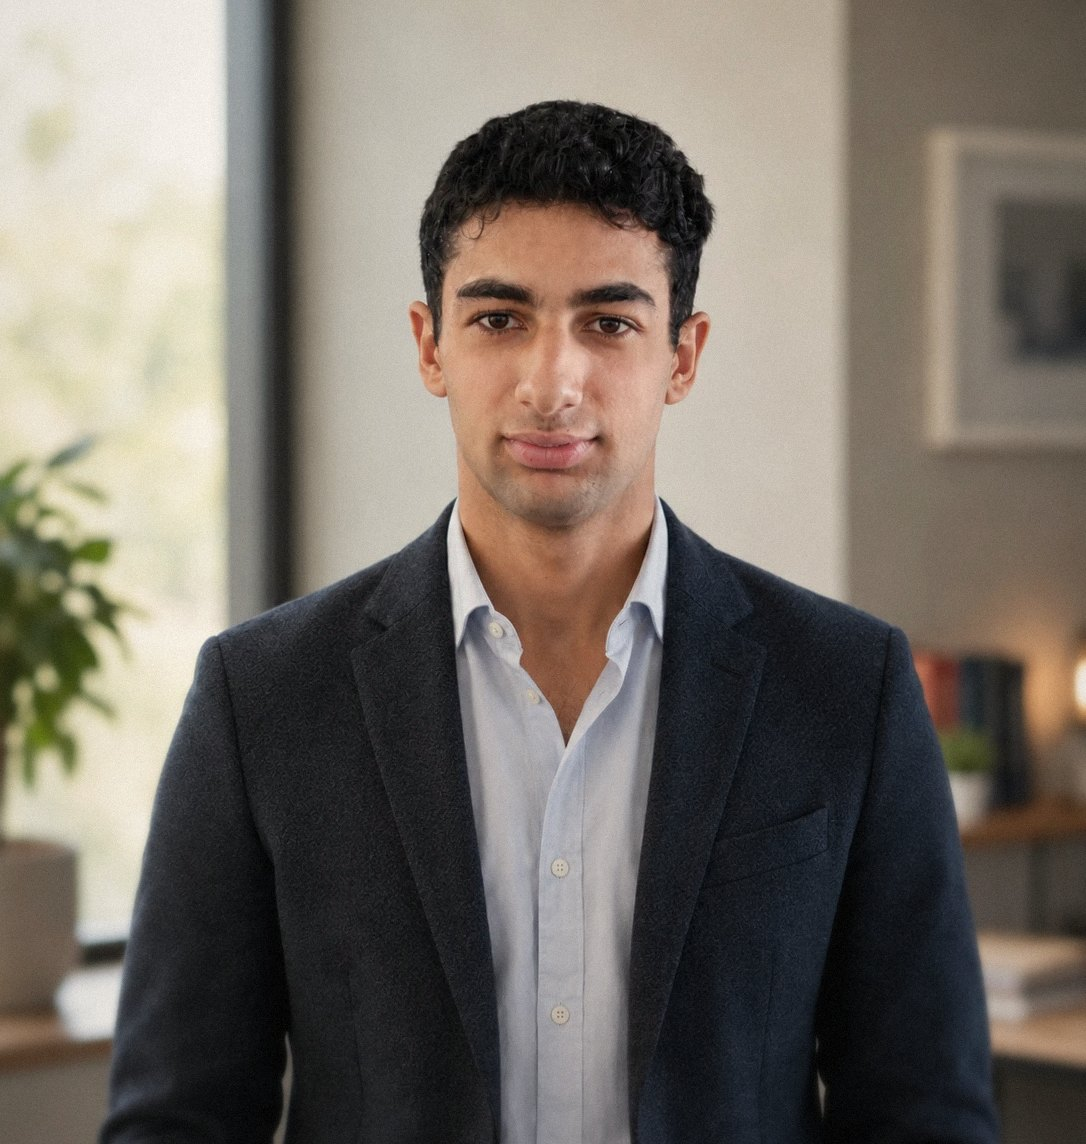
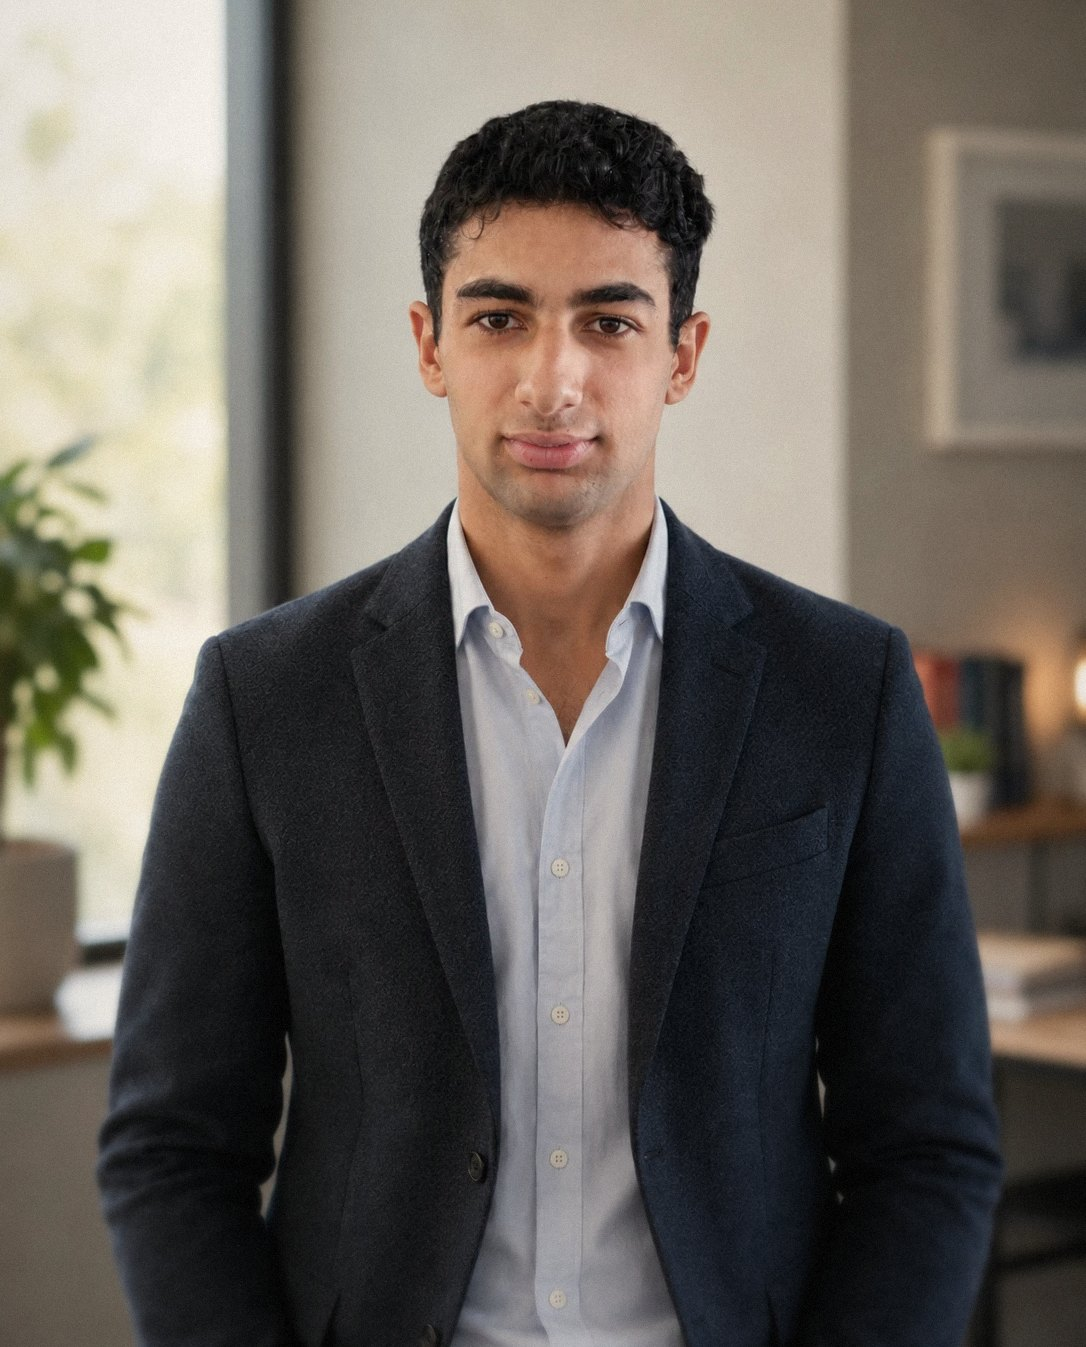
Put the photo behind the hero text and change the slogan
The portrait now fills the hero behind the text: on wide screens it sits
on the right and fades into a blurred copy of itself under the text; on
phones it is full-bleed with the text over the lower part. The slogan
'Turning ideas into software.' appears word by word, then the rest
fades in. Checked at 18 screen sizes that no text covers the face.

Also fixes the back button after in-page anchor jumps (the old page
stayed on screen) and offsets anchor scrolling for the sticky header.

Claude-Session: https://claude.ai/code/session_01494sykuCp5Kfm1inczTs8N

diff --git a/styles.css b/styles.css
@@ -77,27 +77,38 @@ code { font: .88em var(--mono); background: var(--tint); padding: 1px 5px; borde
 .button--outline, .btn--ghost { background: transparent; color: var(--link); }
 .button--outline:hover, .btn--ghost:hover { background: var(--link); color: #fff; border-color: var(--link); }
 
-/* ---------- hero ---------- */
-.hero { position: relative; overflow: hidden; min-height: min(760px, calc(100vh - 120px)); display: flex; flex-direction: column; justify-content: center; padding: 72px 0 28px; }
-.hero__photo { position: absolute; top: 0; right: 0; bottom: 0; width: 58%; z-index: 0; }
+/* ---------- hero: photo behind the text ---------- */
+.hero { --shade: 13, 17, 23; position: relative; overflow: hidden; isolation: isolate; display: flex; align-items: center; padding: 96px 0; background: rgb(var(--shade)); color: #fff; min-height: 600px; min-height: clamp(560px, calc(100vh - 122px), 920px); min-height: clamp(560px, calc(100svh - 122px), 920px); }
+.hero__bg, .hero__photo { position: absolute; z-index: -1; }
+.hero__bg { inset: -60px; }
+.hero__bg img { width: 100%; height: 100%; object-fit: cover; object-position: 50% 30%; filter: blur(32px) saturate(.85); opacity: .5; }
+.hero__photo { top: 0; right: 0; bottom: 0; width: min(70%, 1086px); -webkit-mask-image: linear-gradient(90deg, transparent 0%, #000 38%); mask-image: linear-gradient(90deg, transparent 0%, #000 38%); }
 .hero__photo picture, .hero__photo img { display: block; width: 100%; height: 100%; }
-.hero__photo img { object-fit: cover; object-position: 50% 18%; transform: translate3d(0, var(--py, 0px), 0) scale(1.07); opacity: 0; transition: opacity 1.4s var(--ease), transform 2.4s var(--ease); }
+.hero__photo img { object-fit: cover; object-position: 50% 8%; opacity: 0; transform: translate3d(0, var(--py, 0px), 0) scale(1.06); transition: opacity 1.6s var(--ease), transform 2.6s var(--ease); }
 .is-loaded .hero__photo img { opacity: 1; transform: translate3d(0, var(--py, 0px), 0) scale(1); }
-.hero__photo::after { content: ""; position: absolute; inset: 0; background: linear-gradient(90deg, var(--bg) 0%, rgba(251, 250, 247, .88) 18%, rgba(251, 250, 247, 0) 48%), linear-gradient(0deg, var(--bg) 0%, rgba(251, 250, 247, 0) 22%); pointer-events: none; }
-.hero__inner { position: relative; z-index: 1; }
-.hero__kicker { font: 700 14px var(--sans); letter-spacing: .1em; text-transform: uppercase; color: var(--link); margin-bottom: 18px; }
-.hero__title { font-size: clamp(52px, 8.2vw, 116px); line-height: .98; letter-spacing: -.025em; margin: 0 0 28px; }
-.hero__title .line { display: block; overflow: hidden; padding-bottom: .06em; }
-.hero__title .line > span { display: inline-block; }
-.hero__title .line:last-child > span { background: linear-gradient(var(--gold), var(--gold)) 0 88% / 100% .09em no-repeat; }
-.hero__lead { font-size: 21px; line-height: 1.55; color: #33373d; max-width: 25em; margin-bottom: 30px; }
+.hero::after { content: ""; position: absolute; inset: 0; z-index: -1; pointer-events: none; background: linear-gradient(90deg, rgba(var(--shade), .9) 0%, rgba(var(--shade), .7) 34%, rgba(var(--shade), .16) 62%, rgba(var(--shade), .06) 100%), linear-gradient(0deg, rgba(var(--shade), .65) 0%, rgba(var(--shade), 0) 28%); }
+.hero__inner { position: relative; will-change: opacity, transform; }
+.hero__kicker { font: 600 15px var(--sans); letter-spacing: .12em; text-transform: uppercase; color: rgba(255, 255, 255, .72); margin-bottom: 22px; }
+.hero__title { color: #fff; font-size: clamp(46px, 6.1vw, 92px); line-height: 1.04; letter-spacing: -.02em; margin: 0 0 28px; text-shadow: 0 2px 30px rgba(0, 0, 0, .25); }
+.hero__line { display: block; }
+.hero__title .w { display: inline-block; }
+.hero__title .w--accent { color: var(--gold); }
+.hero__lead { font-size: 20px; line-height: 1.6; color: rgba(255, 255, 255, .84); max-width: min(30em, 44vw); margin-bottom: 34px; }
 .hero__actions { display: flex; flex-wrap: wrap; gap: 12px; margin: 0; }
-.hero__facts { position: relative; z-index: 1; list-style: none; margin: 64px 0 0; padding: 18px 0 0; border-top: 1px solid var(--line); display: flex; flex-wrap: wrap; gap: 10px 44px; font-size: 16px; color: var(--muted); }
-.hero__facts b { color: var(--text); margin-right: 4px; }
+.button--light { background: #fff; border-color: #fff; color: #14171c; }
+.button--light:hover { background: var(--gold); border-color: var(--gold); color: #14171c; }
+.button--ghost-light { background: transparent; border-color: rgba(255, 255, 255, .55); color: #fff; }
+.button--ghost-light:hover { background: #fff; border-color: #fff; color: #14171c; }
+.hero__scroll { position: absolute; left: 50%; bottom: 26px; width: 26px; height: 42px; margin-left: -13px; border: 2px solid rgba(255, 255, 255, .5); border-radius: 14px; }
+.hero__scroll span { position: absolute; left: 50%; top: 8px; width: 4px; height: 8px; margin-left: -2px; border-radius: 2px; background: #fff; animation: scrollcue 1.8s var(--ease) infinite; }
+@keyframes scrollcue { 0% { transform: translateY(0); opacity: 0; } 30% { opacity: 1; } 100% { transform: translateY(14px); opacity: 0; } }
+
+/* opening animation: words come in one by one, then the rest */
 .js .rise { opacity: 0; transform: translateY(16px); transition: opacity .8s var(--ease), transform .8s var(--ease); transition-delay: var(--d, 0s); }
-.js .hero__title .line > span { transform: translateY(105%); transition: transform 1s var(--ease); transition-delay: var(--d, 0s); }
+.js .hero__title .w { opacity: 0; transform: translateY(.35em); filter: blur(10px); transition: opacity .9s var(--ease), transform .9s var(--ease), filter .9s var(--ease); transition-delay: var(--d, 0s); }
 .is-loaded .rise { opacity: 1; transform: none; }
-.is-loaded .hero__title .line > span { transform: none; }
+.is-loaded .hero__title .w { opacity: 1; transform: none; filter: none; }
+
 .widget { background: var(--card); border: 1px solid var(--line); border-radius: 4px; padding: 22px 24px; }
 .widget__title { font: 700 13px/1.3 var(--sans); letter-spacing: .08em; text-transform: uppercase; color: var(--muted); margin-bottom: 14px; padding-bottom: 10px; border-bottom: 2px solid var(--gold); display: inline-block; }
 .now { list-style: none; margin: 0; padding: 0; font-size: 16px; line-height: 1.5; }
@@ -300,13 +311,22 @@ img.lazy.is-loaded { opacity: 1; }
   html { scroll-behavior: auto; }
   *, *::before, *::after { transition-duration: .01ms !important; animation: none !important; }
   .js .fx, .js [data-reveal], .js .post, .js .rise { opacity: 1; transform: none; }
-  .js .hero__title .line > span { transform: none; }
+  .js .hero__title .w { opacity: 1; transform: none; filter: none; }
   .hero__photo img { opacity: 1; transform: none; }
   .courtdraw .draw { stroke-dashoffset: 0; }
   .courtdraw .dot { opacity: 1; }
 }
 
 /* ---------- responsive ---------- */
+@media (max-width: 820px) {
+  /* tall enough that the text always starts below the chin, whatever the screen shape */
+  .hero { align-items: flex-end; padding: 0 0 56px; min-height: 680px; min-height: min(max(680px, calc(100vh - 110px), calc(42vw + 490px)), 940px); min-height: min(max(680px, calc(100svh - 110px), calc(42vw + 490px)), 940px); }
+  .hero__bg, .hero__scroll { display: none; }
+  .hero__photo { width: 100%; -webkit-mask-image: none; mask-image: none; }
+  .hero__photo img { object-position: 50% 0%; }
+  .hero::after { background: linear-gradient(0deg, rgba(var(--shade), .96) 0%, rgba(var(--shade), .84) 30%, rgba(var(--shade), .25) 56%, rgba(var(--shade), 0) 74%); }
+  .hero__lead { max-width: 34em; }
+}
 @media (max-width: 1000px) {
   .post--featured { grid-template-columns: 1fr; }
   .post--featured .post__img { aspect-ratio: 16 / 10; min-height: 0; }
@@ -314,11 +334,6 @@ img.lazy.is-loaded { opacity: 1; }
   .case-sec { grid-template-columns: 1fr; gap: 20px; }
 }
 @media (max-width: 820px) {
-  .hero { min-height: 0; padding: 0 0 20px; justify-content: flex-start; }
-  .hero__photo { position: relative; width: 100%; height: 62vh; max-height: 520px; margin-bottom: -120px; }
-  .hero__photo img { object-position: 50% 12%; }
-  .hero__photo::after { background: linear-gradient(0deg, var(--bg) 0%, rgba(251, 250, 247, .75) 22%, rgba(251, 250, 247, 0) 48%); }
-  .hero__facts { margin-top: 40px; flex-direction: column; gap: 8px; }
   body { font-size: 17px; }
   .topbar__right a:not(:first-child) { display: none; }
   .menu-toggle { display: inline-flex; }
@@ -342,8 +357,9 @@ img.lazy.is-loaded { opacity: 1; }
   .tech dd { margin-bottom: 12px; }
 }
 @media (max-width: 560px) {
-  .hero__title { font-size: 50px; }
-  .hero__lead { font-size: 18px; }
+  .hero__title { font-size: 44px; }
+  .hero__lead { font-size: 17.5px; }
+  .hero__kicker { font-size: 13px; margin-bottom: 14px; }
   .wrap { width: calc(100% - 32px); }
   .topbar__inner > span:first-child { display: none; }
   .brand__name { font-size: 21px; }
@@ -356,4 +372,8 @@ img.lazy.is-loaded { opacity: 1; }
   .results tr { display: block; padding: 12px 0; border-bottom: 1px solid rgba(255, 255, 255, .12); }
   .results td:first-child { width: auto; }
   .form { padding: 22px 18px; }
+}
+@media (max-width: 360px) {
+  .brand__name { font-size: 18px; }
+  .menu-toggle { padding: 8px 10px; }
 }

diff --git a/index.html b/index.html
@@ -12,7 +12,7 @@
   <meta property="og:url" content="https://ioannistambourlas.com/">
   <link rel="canonical" href="https://ioannistambourlas.com/">
   <meta name="theme-color" content="#fbfaf7">
-  <link rel="preload" as="image" type="image/webp" imagesrcset="assets/portrait-hero-sm.webp 543w, assets/portrait-hero.webp 1086w" imagesizes="(max-width: 820px) 100vw, 58vw">
+  <link rel="preload" as="image" type="image/webp" imagesrcset="assets/portrait-hero-sm.webp 600w, assets/portrait-hero.webp 1086w" imagesizes="(max-width: 820px) 100vw, 70vw">
   <link rel="icon" href="/assets/favicon.svg" type="image/svg+xml">
   <link rel="preconnect" href="https://fonts.googleapis.com">
   <link rel="preconnect" href="https://fonts.gstatic.com" crossorigin>
@@ -56,32 +56,27 @@
 <main id="main">
 
   <!-- Hero -->
-  <section class="hero">
+  <section class="hero" aria-label="Introduction">
+    <div class="hero__bg" aria-hidden="true"><img src="assets/portrait-hero-sm.webp" alt="" width="600" height="744"></div>
     <div class="hero__photo" aria-hidden="true">
       <picture>
-        <source type="image/webp" srcset="assets/portrait-hero-sm.webp 543w, assets/portrait-hero.webp 1086w" sizes="(max-width: 820px) 100vw, 58vw">
-        <img src="assets/portrait-hero.jpg" alt="" width="1086" height="1144" fetchpriority="high">
+        <source type="image/webp" srcset="assets/portrait-hero-sm.webp 600w, assets/portrait-hero.webp 1086w" sizes="(max-width: 820px) 100vw, 70vw">
+        <img src="assets/portrait-hero.jpg" alt="" width="1086" height="1347" fetchpriority="high">
       </picture>
     </div>
     <div class="wrap hero__inner">
-      <p class="hero__kicker rise" style="--d:.15s">Hi, I&rsquo;m Ioannis</p>
+      <p class="hero__kicker rise" style="--d:.2s">Hi, I&rsquo;m Ioannis</p>
       <h1 class="hero__title">
-        <span class="line"><span style="--d:.25s">Built for</span></span>
-        <span class="line"><span style="--d:.38s">match point.</span></span>
+        <span class="hero__line"><span class="w" style="--d:.45s">Turning</span> <span class="w" style="--d:.62s">ideas</span></span>
+        <span class="hero__line"><span class="w" style="--d:.79s">into</span> <span class="w w--accent" style="--d:.96s">software.</span></span>
       </h1>
-      <p class="hero__lead rise" style="--d:.6s">I build apps people actually use, study computer science at KTH, and won the 2025 Cypriot national badminton championship.</p>
-      <p class="hero__actions rise" style="--d:.75s">
-        <a class="button" href="#projects">See my work</a>
-        <a class="button button--outline" href="Ioannis-Tambourlas-CV.pdf" download>Download CV</a>
+      <p class="hero__lead rise" style="--d:1.35s">Software developer and computer science student at KTH in Stockholm. Co&#8209;founder of Futsalaki, a booking app live on iOS and Android.</p>
+      <p class="hero__actions rise" style="--d:1.5s">
+        <a class="button button--light" href="#projects">See my work</a>
+        <a class="button button--ghost-light" href="Ioannis-Tambourlas-CV.pdf" download>Download CV</a>
       </p>
     </div>
-    <div class="wrap">
-      <ul class="hero__facts rise" style="--d:.95s">
-        <li><b>Futsalaki</b> co-founder, live on iOS and Android</li>
-        <li><b>KTH</b> BSc Computer Science, 2025 to 2028</li>
-        <li><b>Summer 2027</b> open to software internships</li>
-      </ul>
-    </div>
+    <a class="hero__scroll rise" href="#projects" style="--d:1.9s" aria-label="Scroll to projects"><span></span></a>
   </section>
 
   <!-- Projects -->

diff --git a/assets/site.js b/assets/site.js
@@ -27,12 +27,18 @@
 
     // Header gets a shadow and shrinks once the top bar has scrolled away
     var header = document.querySelector('.site-header'), topbar = document.querySelector('.topbar');
-    var heroImg = document.querySelector('.hero__photo img');
+    var heroImg = document.querySelector('.hero__photo img'), heroText = document.querySelector('.hero__inner');
     function onScroll() {
       var y = window.scrollY;
       if (header) header.classList.toggle('is-stuck', y > (topbar ? topbar.offsetHeight : 0) + 4);
-      // the photo drifts a little slower than the page
-      if (heroImg && !reduce && y < 1200) heroImg.style.setProperty('--py', Math.round(y * 0.18) + 'px');
+      if (!reduce && y < 1400) {
+        // the photo drifts slower than the page, the headline lifts and fades as you leave it
+        if (heroImg) heroImg.style.setProperty('--py', Math.round(y * 0.18) + 'px');
+        if (heroText) {
+          heroText.style.opacity = String(Math.max(0.1, 1 - y / 560));
+          heroText.style.transform = 'translate3d(0,' + Math.round(y * -0.12) + 'px,0)';
+        }
+      }
     }
     window.addEventListener('scroll', onScroll, { passive: true });
     cleanups.push(function () { window.removeEventListener('scroll', onScroll); });
@@ -135,6 +141,7 @@
   // ---- AJAX navigation between the home page and the case studies ----
   var bar = document.getElementById('loadbar');
   var parts = ['.topbar', '.site-header', '#main', '.site-footer'];
+  var shownPath = location.pathname; // the page whose content is on screen right now
 
   function isPage(url) {
     if (url.origin !== location.origin) return false;
@@ -145,7 +152,10 @@
   function scrollToHash(hash) {
     var el = hash && document.getElementById(decodeURIComponent(hash.slice(1)));
     doc.style.scrollBehavior = 'auto';
-    if (el) el.scrollIntoView(); else window.scrollTo(0, 0);
+    if (el) {
+      var head = document.querySelector('.site-header');
+      window.scrollTo(0, el.getBoundingClientRect().top + window.scrollY - (head ? head.offsetHeight : 0) - 16);
+    } else window.scrollTo(0, 0);
     doc.style.scrollBehavior = '';
   }
 
@@ -166,6 +176,7 @@
           var cur = document.querySelector(sel), fresh = next.querySelector(sel);
           if (cur && fresh) cur.replaceWith(document.importNode(fresh, true));
         });
+        shownPath = url.pathname;
         scrollToHash(url.hash);
         init();
         doc.classList.remove('is-leaving');
@@ -187,8 +198,10 @@
         e.preventDefault();
         go(url, true);
       });
-      window.addEventListener('popstate', function (e) {
-        if (e.state && e.state.ajax) go(new URL(location.href), false);
+      // Back/forward: reload the content whenever the page changed. In-page anchor jumps
+      // (#projects etc.) leave history entries without our state, so compare paths instead.
+      window.addEventListener('popstate', function () {
+        if (location.pathname !== shownPath) go(new URL(location.href), false);
       });
     }
   } catch (err) { /* plain navigation still works */ }
